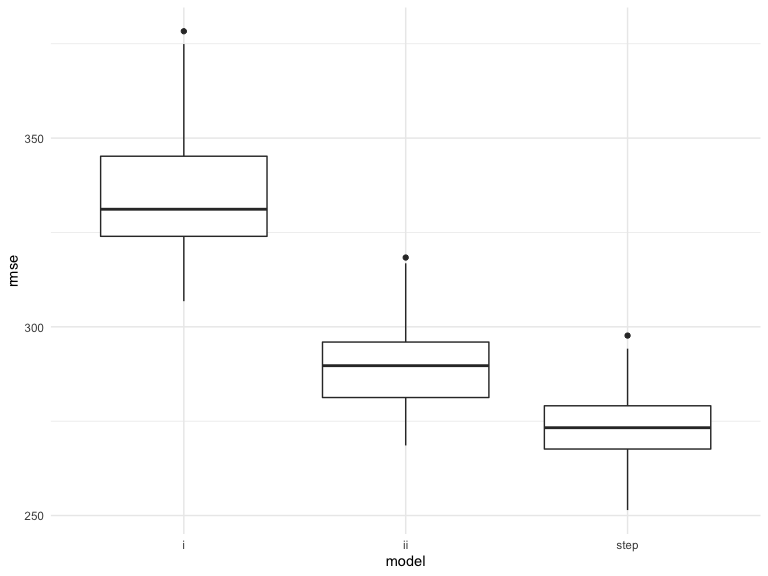
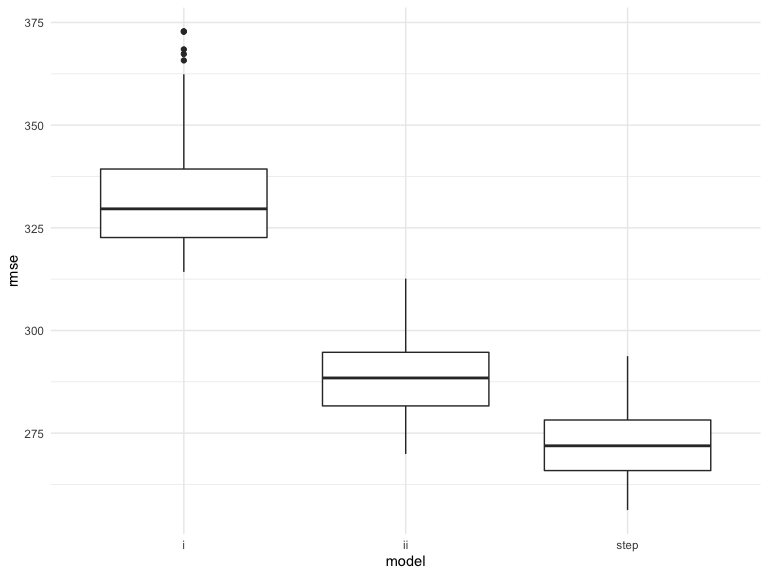
problem 3: comment on plots

diff --git a/p8105_hw6_jhm2176.md b/p8105_hw6_jhm2176.md
@@ -23,7 +23,7 @@ Tulsa, AL, and to limit our analysis to homicides for which victim_race
 is white or Black.
 
 ``` r
-homicides_hw6 =
+homicides =
   read_csv("./data/homicide-data.csv") %>% #load data
   janitor::clean_names() %>% #clean names
   mutate(city_state = as.factor(str_c(city, state, sep = ", ")), #new variable
@@ -55,17 +55,16 @@ predictors for the city of Baltimore, MD.
 
 ``` r
 baltimore =
-  homicides_hw6 %>%
+  homicides %>%
   filter(city_state == "Baltimore, MD")
 
 fit = glm(solved ~ victim_age + victim_sex + victim_race, data = baltimore, family = "binomial")
 ```
 
 The following code saves the output of my logistic regression model as
-an R object. `broom::tidy` and `filter` are used to obtain the adjusted
-odds ratio estimate and confidence interval for solving homicides
-comparing male victims to female victims, keeping all other variables
-fixed.
+an R object. `tidy` and `filter` are used to obtain the adjusted odds
+ratio estimate and confidence interval for solving homicides comparing
+male victims to female victims, keeping all other variables fixed.
 
 ``` r
 fit_output =
@@ -82,17 +81,16 @@ fit_output
     ##   <chr>                <dbl>    <dbl>    <dbl>
     ## 1 victim_sexMale       0.426    0.324    0.558
 
-Now, I will run `glm` for each of the cities in the homicides_hw6
-dataset, and extract the adjusted odds ratio and confidence interval for
-solving homicides comparing male victims to female victims. The
-following “tidy” pipeline uses `purrr::map`, `glm`, `broom::tidy`, list
-columns, and `unnest` to create a dataframe with estimated ORs and CIs
-for each city. `filter` and `select` are used to select our values of
-interest.
+Now, I will run `glm` for each of the cities in the homicides dataset,
+and extract the adjusted odds ratio and confidence interval for solving
+homicides comparing male victims to female victims. The following “tidy”
+pipeline uses `purrr::map`, `glm`, `broom::tidy`, list columns, and
+`unnest` to create a dataframe with estimated ORs and CIs for each city.
+`filter` and `select` are used to select our values of interest.
 
 ``` r
 city_glm =
-  homicides_hw6 %>% 
+  homicides %>% 
   nest(data = -city_state) %>% 
   mutate(
     models = map(data, ~glm(solved ~ victim_age + victim_sex + victim_race, family = "binomial", data = .x)),
@@ -124,8 +122,9 @@ city_glm
     ## # … with 37 more rows
 
 Finally, the following code uses `geom_point` and `geom_errorbar` to
-create a plot showing the estimated odds ratios and confidence intervals
-for each city. Cities are arranged in ascending order of estimated OR.
+create a plot showing the estimated adjusted odds ratios and confidence
+intervals for each city. Cities are arranged in ascending order of
+estimated OR.
 
 ``` r
 city_glm %>%
@@ -144,20 +143,22 @@ city_glm %>%
 **Comment:** The plot suggests that the odds of homicide resolution for
 male victims is less than the odds of homicide resolution for female
 victims in most of our analyzed cities, in general, after adjusting for
-victim age and race.In other words, after adjusting for victim age and
+victim age and race. In other words, after adjusting for victim age and
 race, homicides are generally more likely to be solved in cases where
 the victim is a woman compared to cases where the victim is a man. This
 is true for all cities in our dataset **except** Atlanta, GA; Richmond,
 VA; Nashville, TN; Fresno, CA; Stockton, CA; and Albuquerque, NM, where
-the adjusted OR \>= 1, which indicates that the odds of homicide
-resolution for male victims is equal to or greater than the odds of
-homicide resolution for female victims in these cities.
+the adjusted OR \>= 1, indicating that the odds of homicide resolution
+for male victims is equal to or greater than the odds of homicide
+resolution for female victims in these cities.
 
 ## Problem 3
 
 This problem uses data gathered to understand the effects of several
 variables on a child’s birthweight. This dataset includes information on
 roughly 4000 children.
+
+### Data
 
 First, I will load and clean the data for regression analysis. `mutate`
 is used to convert babysex, frace, malform, and mrace from numeric
@@ -188,7 +189,7 @@ lapply(birthweight, unique) #check for unusual values: menarche = 0, 1 observati
 ```
 
 No missing data was identified. There is one observation where menarche
-is 0, which is unexpected, because our menarche variable represents the
+= 0, which is unexpected, because our menarche variable represents the
 mother’s age at menarche (years). I will make note of this but refrain
 from changing the data.
 
@@ -219,14 +220,18 @@ tidy(fit_step)
     ## 13 ppwt           -2.68      0.427     -6.26 4.20e- 10
     ## 14 smoken         -4.84      0.586     -8.27 1.75e- 16
 
-My selected model is bwt \~ babysex + bhead + blength + delwt +
-fincome + gaweeks + , mheight + mrace + parity + ppwt + smoken This
-model was selected using stepwise selection by AIC, a data-driven
+This model was selected using stepwise selection by AIC, a data-driven
 model-building process. Stepwise selection is a combination of forward
-and backwards model selection, during which
+and backwards model selection, during which variables are removed from
+and entered into the model in a way that leads to the best improvement
+in AIC (smallest AIC). The resulting model is bwt \~ babysex + bhead +
+blength + delwt + fincome + gaweeks + , mheight + mrace + parity +
+ppwt + smoken.
 
-Show a plot of model residuals against fitted values – use
-add_predictions and add_residuals in making this plot.
+### Residual vs Fits Plot
+
+The following code uses `add_predictions` and `add_residuals` to create
+a plot of model residuals against fitted values.
 
 ``` r
 birthweight %>%
@@ -239,12 +244,13 @@ birthweight %>%
 
 <img src="p8105_hw6_jhm2176_files/figure-gfm/residuals plot-1.png" width="90%" />
 
-Compare your model to two others:
+### Model Comparison
 
-- One using length at birth and gestational age as predictors (main
-  effects only)
-- One using head circumference, length, sex, and all interactions
-  (including the three-way interaction) between these
+Finally, I will compare my selected fit_step model to two other models:
+
+- fit_i using length at birth and gestational age as predictors
+- fit_ii using head circumference, length, sex, and all interactions
+  between these
 
 ``` r
 fit_i = lm(bwt ~ blength + gaweeks, data = birthweight)
@@ -276,8 +282,11 @@ tidy(fit_ii)
     ## 7 blength:babysex2        -124.       35.1      -3.52  0.000429    
     ## 8 bhead:blength:babysex2     3.88      1.06      3.67  0.000245
 
-Make this comparison in terms of the cross-validated prediction error;
-use crossv_mc and functions in purrr as appropriate.
+The following code uses `crossv_mc`, `mutate`, and `map` functions in
+`purrr` to compare the cross-validated prediction errors of fit_step,
+fit_i, and fit_ii. It does so by generating training and testing
+datasets, fitting the three models to assess prediction accuracy, and
+obtaining RMSEs for each model.
 
 ``` r
 cv_df = 
@@ -302,6 +311,9 @@ cv_df =
   )
 ```
 
+The following code creates a plot showing the distribution of RMSE
+values for each model:
+
 ``` r
 cv_df %>% 
   select(starts_with("rmse")) %>% 
@@ -317,8 +329,6 @@ cv_df %>%
 
 <img src="p8105_hw6_jhm2176_files/figure-gfm/unnamed-chunk-8-1.png" width="90%" />
 
-*Comment:*
-
-Note that although we expect your model to be reasonable, model building
-itself is not a main idea of the course and we don’t necessarily expect
-your model to be “optimal”.
+*Comment:* Based on this plot, the fit_step model is the best fit for
+our data. Compared to the other two models, fit_step has the lowest RMSE
+values, on average.
